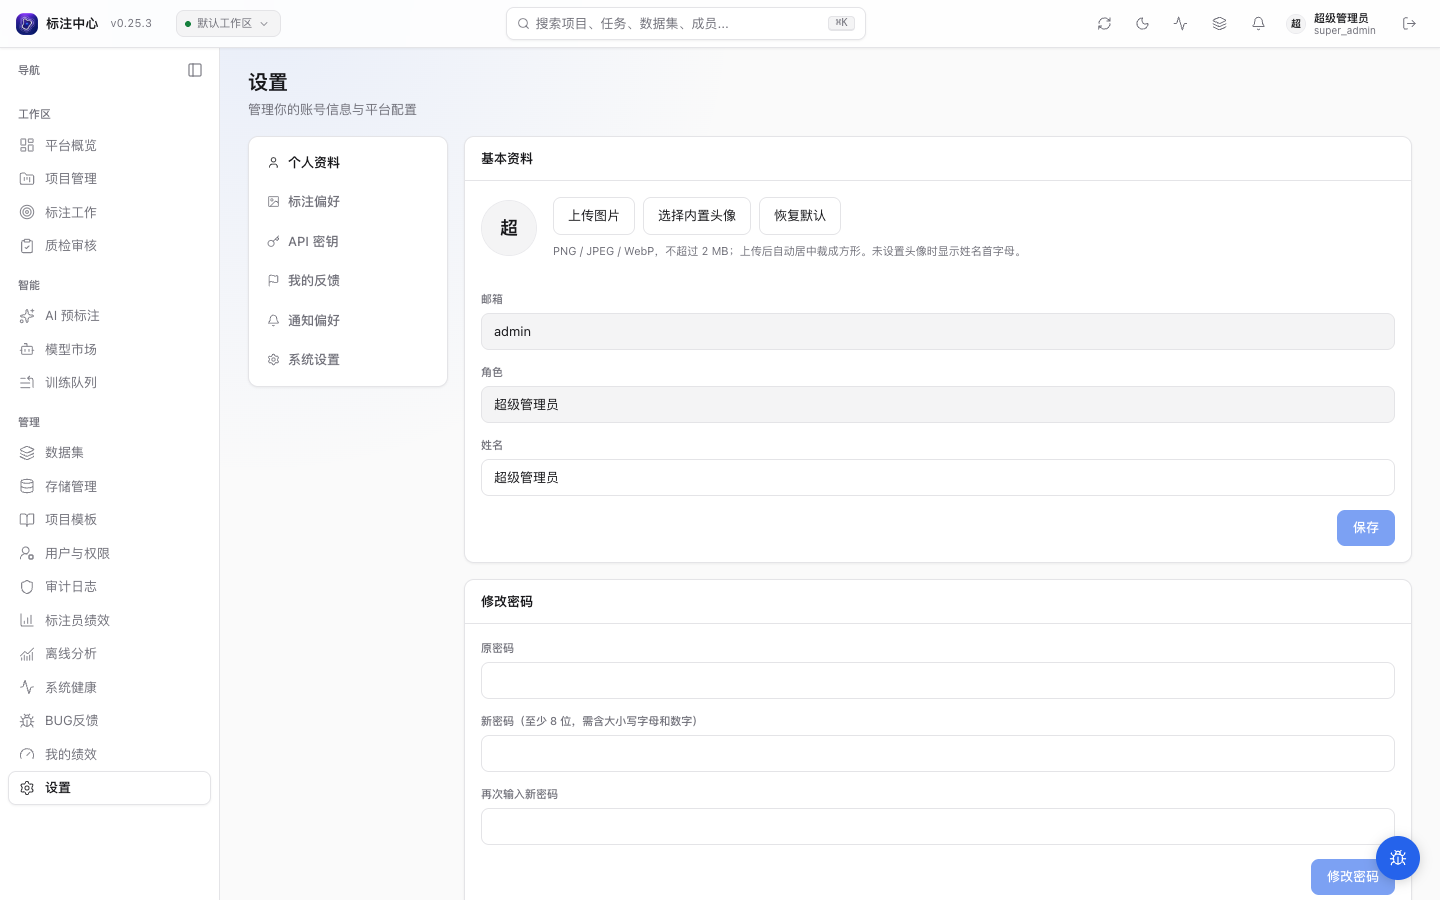
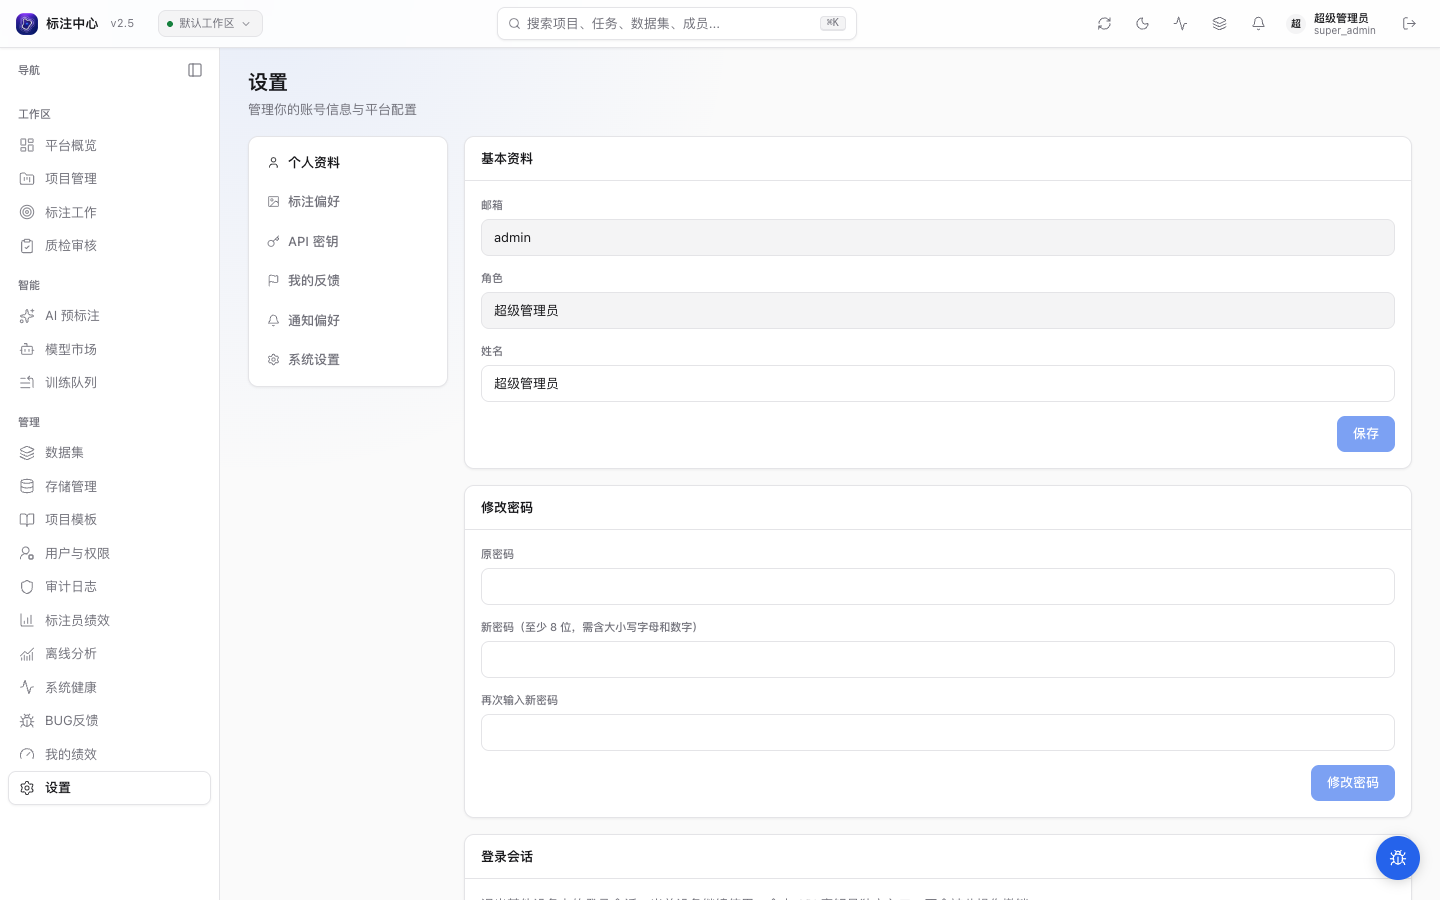
docs(media): 回退个人资料页截图,修正截图清单不变量
CI 的 Docs validation / User-guide image coverage 失败:
  docs-site/user-guide/images/settings/profile.png: SHA-256 与磁盘文件不一致

原因是我的疏漏加工具约束:
- outputs/manifest.json 受版本控制(仅同目录临时产物被忽略)。此前用
  `git add <目录>` 被 git 拒绝,导致只提交了新图而没提交清单新哈希。
- manifest-reporter 只在**完整矩阵**跑完后才重写清单;单场景/单 project 运行
  故意不更新,所以单跑 settings/profile 不会同步清单。

验证能否用完整矩阵合法修复:本机跑完整 desktop-light 矩阵,65 张里 38 张字节
不同、3 个 scene 失败(本机 fixture/stub 与既有基线机器不一致)。要让清单被工具
更新就必须连带重写 38 张无关截图并逐一复核,不应塞进本 PR。

因此回退截图与 media-reviews 记录(三者哈希重新一致),并把「截图加入头像行」
列为后续工作:需要一次完整矩阵运行 + 复核,或维护者同意后做单条目清单修补。
本地已跑与 CI 相同的两项检查确认通过:
check-image-manifest --strict / check-orphan-images --strict。

diff --git a/docs/plans/1789404708_avatar-upload-pixel-presets.md b/docs/plans/1789404708_avatar-upload-pixel-presets.md
@@ -474,15 +474,27 @@ P1 与 P2 无依赖，可并行；P3 依赖 P1、P2；P4 依赖 P3。
 | 协作面            | 用户与权限列表出现带图片的头像行，同表其余用户仍为首字母（混排不错位）；项目负责人无头像时回退首字母                                                            |
 | 恢复默认          | 无头像时按钮禁用；有头像动作后可用（组件测试覆盖清除路径）                                                                                                      |
 
+### 14.4 文档截图：已捕获复核但**回退**（清单不变量）
+
+个人资料页截图确实按 §2 的隔离环境重截并复核过，但**不能**随本 PR 落地，原因是截图清单的不变量：
+
+- `apps/web/e2e/screenshots/outputs/manifest.json` 是**受版本控制**的（仅该目录内的临时产物被忽略；`git add <目录>` 会被拒绝，必须显式 `git add <文件>`——本次就是这么漏掉的）。
+- `manifest-reporter` 只在**完整矩阵**（全部 matrix project + 全部 scene target）跑完后才重写清单；单场景 / 单 project 运行**故意不更新**，因此 `docs-site/scripts/check-image-manifest.mjs --strict` 会因「SHA-256 与磁盘文件不一致」失败。
+- 用本机跑完整 `desktop-light` 矩阵验证可重复性：**65 张里 38 张字节不同、还有 3 个 scene 失败**（本机 fixture/stub 与既有基线机器不一致）。也就是说，想让清单被工具合法更新，就必须连带重写 38 张无关截图并逐一重新复核。
+
+因此本 PR 回退该截图（连同 `media-reviews.json` 的复核记录），把「个人资料页截图加入头像行」列为后续工作：需要一次完整的截图矩阵运行 + 38 张图的复核，或由维护者明确同意后做单条目的清单修补。
+
 ## Outcome
 
-- Landed commits: `1d0fc8ee`（主体）、`e695f6db`（计划记录）、`8557ee5f`（工作树桶隔离）、`7db7f197`（头像组测试）、`632686c3`（截图重截）、`7b52ecc0`（截图复核）
+- Landed commits: `1d0fc8ee`（主体）、`e695f6db`（计划记录）、`8557ee5f`（工作树桶隔离）、`7db7f197`（头像组测试）、`fada5ffd`（合并 main 解冲突）、`8608f174`（入口包削减 + 预算上调）；`632686c3` / `7b52ecc0` 的截图重截与复核**已回退**（§14.4）
 - Release milestone: Not yet determined
 - User documentation: `docs-site/user-guide/reference/settings.md`（个人资料「头像」）
 - Developer documentation: `docs-site/dev/reference/storage-buckets.md`（`avatars` 桶 + 可见性边界）、`docs-site/dev/reference/generated-artifacts.md`（像素头像生成物）、`docs-site/ops/deploy/{docker-compose,lan-production}.md、`docs-site/dev/how-to/worktree-environments.md`与`docs-site/dev/concepts/runtime-environments.md`（桶数）
 - ADR: 无（分桶与免鉴权读取的取舍记入 `storage-buckets.md` 与 `apps/api/app/api/v1/avatars.py` 模块注释，未达到 ADR 门槛）
 - CHANGELOG: Unreleased / Added 已加条目
 - Remaining work:
-  1. 评论 / Issue / 通知 / 审计日志的头像仍为文字或首字母（§12），需要为那 6+ 个 payload 单独扩展。
-  2. Playwright e2e 未新增；选择器与头像组由 vitest 组件测试覆盖（含图片/首字母混排）。
-  3. 本机 ffmpeg 缺 `libwebp`、Docker Hub 受限两条环境问题建议补进截图排障文档（§14.1）。
+  1. **个人资料页文档截图**加入头像行：需要一次完整截图矩阵运行 + 连带变化图片的复核，或维护者同意后做单条目清单修补（§14.4）。
+  2. 评论 / Issue / 通知 / 审计日志的头像仍为文字或首字母（§12），需要为那 6+ 个 payload 单独扩展。
+  3. Playwright e2e 未新增；选择器与头像组由 vitest 组件测试覆盖（含图片/首字母混排）。
+  4. 本机 ffmpeg 缺 `libwebp`、Docker Hub 受限两条环境问题建议补进截图排障文档（§14.1）。
+  5. CI 观察：`Frontend verification / vitest with coverage` 曾在 `ProjectDetailPanel.test.tsx` 的 OCR 用例上超时失败——即 `vitest.setup.ts` 注释里记录的已知 CI 满载抖动，与本改动无关；本地该文件通过。
